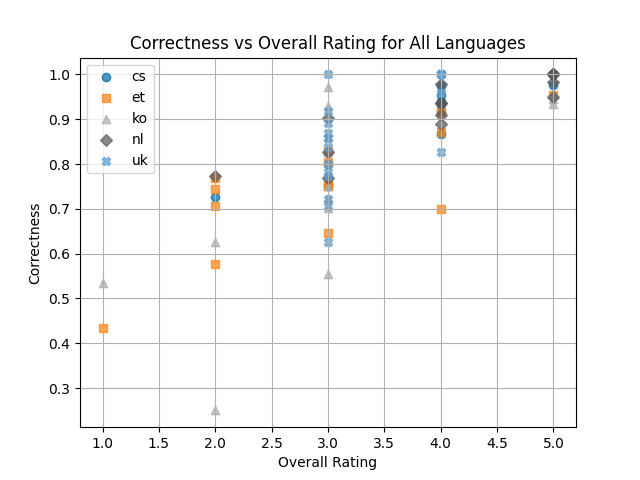
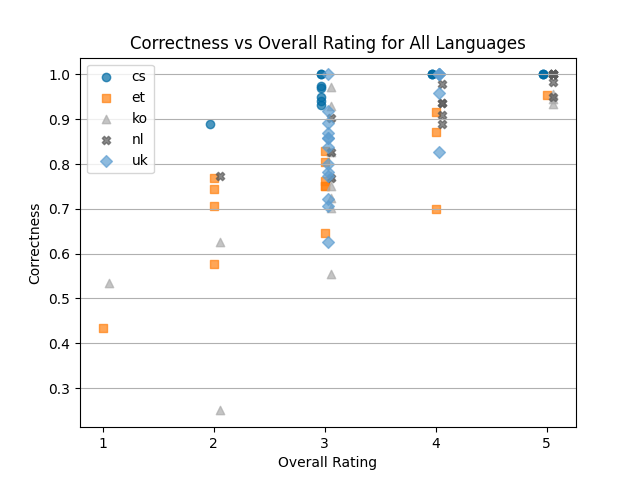
feat: update MT eval

diff --git a/experiments/evaluate_machine_translation.py b/experiments/evaluate_machine_translation.py
@@ -35,6 +35,12 @@ The evaluation results JSON looks like this:
         "title": ...
    ]
 }
+
+Expected call:
+    python evaluate_machine_translation.py \
+        --input_jsons_root ../translation/eval_translation/annotations \
+        --results_dir ../translation/eval_translation/results \
+        --plot_dir ../translation/eval_translation/results 
 """
 
 
@@ -47,6 +53,10 @@ import os
 import numpy as np
 
 from sklearn.metrics import cohen_kappa_score
+import matplotlib.pyplot as plt
+
+from collections import Counter
+
 
 __version__ = "0.0.2"
 __author__ = {"0.0.1" : "Jan Hajic jr.", 
@@ -54,7 +64,7 @@ __author__ = {"0.0.1" : "Jan Hajic jr.",
 
 
 JSONS_MAP = {
-    'cs': 'folksong_mt_czech_SU.json',
+    'cs': 'folksong_mt_czech_OV.json',
     'et': 'folksong_mt_estonian_AA.json',
     'ko': 'folksong_mt_korean_DH.json',
     'nl': 'folksong_mt_dutch_PvK.json',
@@ -107,21 +117,61 @@ def compute_self_agreement(evaluations, language):
     self_agreement = cohen_kappa_score(labels1, labels2)
     return self_agreement
 
+def plot_cor(evaluations, language, plots_dir):
+    '''
+    Create and save plot of correctness vs rating for all languages.
+    '''
+    ratings = []
+    correctness = []
+    for i, e in enumerate(evaluations):
+        # Exclude duplicate songs, if any.
+        if i + 1 in DUPLICATE_SONGS_MAP.get(language, [])[1:]:
+            continue
+        ratings.append(e['overallRating'])
+        n_correct = sum(1 for w in e['words'] if w['status'] == 'correct')
+        n_wrong = sum(1 for w in e['words'] if w['status'] == 'wrong')
+        mean_correctness = n_correct / (n_correct + n_wrong) if (n_correct + n_wrong) > 0 else 0
+        correctness.append(mean_correctness)
+    plt.figure()
+    plt.scatter(ratings, correctness)
+    plt.xlabel('Overall Rating')
+    plt.ylabel('Mean Correctness')
+    plt.title('Correctness vs Overall Rating for {}'.format(language))
+    plt.grid()
+    os.makedirs(plots_dir, exist_ok=True)
+    plt.savefig(os.path.join(plots_dir, 'correctness_vs_rating_{}.png'.format(language)))
+    plt.close()
 
-def evaluate_language(evaluations, language):
+def eval_detailed_info(evaluations, language):
+    hallucinations = str(f"{sum(1 for e in evaluations if e['hallucination'] == 'yes' if e['textId'] not in DUPLICATE_SONGS_MAP.get(language, [])[1:])} out of {len(evaluations) -1} songs")
+    unusual_language = Counter([e['unusualLanguage'] for e in evaluations if e['textId'] not in DUPLICATE_SONGS_MAP.get(language, [])[1:]])
+    return hallucinations, unusual_language
+
+def evaluate_language(evaluations, language, plots_dir='plots'):
     mean_overall_rating = np.mean([e['overallRating'] for e in evaluations if e['overallRating'] is not None])
     mean_correctness, mean_importance, n_total_words = compute_mean_correctness(evaluations, language)
+    hallucinations, unusual_language = eval_detailed_info(evaluations, language)
     self_agreement = compute_self_agreement(evaluations, language)
-    return mean_overall_rating, mean_correctness, mean_importance, n_total_words, self_agreement
+    #plot_cor(evaluations, language, plots_dir)
+    return mean_overall_rating, mean_correctness, mean_importance, n_total_words, self_agreement, hallucinations, unusual_language
 
 
-def report_language_evaluation(language, mean_overall_rating, mean_correctness, mean_importance, n_total_words, self_agreement=0.0):
-    print('Language: {}'.format(language))
-    print('  Mean overall rating: {:.2f}'.format(mean_overall_rating))
-    print('  Mean correctness: {:.2f}'.format(mean_correctness))
-    print('  Mean importance: {:.2f}'.format(mean_importance))
-    print('  Total words evaluated: {}'.format(n_total_words))
-    print('  Self-agreement of annotator: {:.2f}'.format(self_agreement))
+def report_language_evaluation(language, mean_overall_rating, mean_correctness, mean_importance, 
+                               n_total_words, hallucinations, unusual_language, 
+                               self_agreement=0.0, file='results/evaluation_results.txt'):
+    with open(file, 'a') as f:
+        print('Language: {}'.format(language), file=f)
+        print('  Mean overall rating: {:.2f}'.format(mean_overall_rating), file=f)
+        print('  Mean correctness: {:.2f}'.format(mean_correctness), file=f)
+        print('  Mean importance: {:.2f}'.format(mean_importance), file=f)
+        print('  Total words evaluated: {}'.format(n_total_words), file=f)
+        print('  Self-agreement of annotator: {:.2f}'.format(self_agreement), file=f)
+        print('  Hallucinations: {}'.format(hallucinations), file=f)
+        print('  Unusual language distribution:', file=f)
+        for level, count in unusual_language.items():
+            print('    {}: {}'.format(level, count), file=f)
+        print('', file=f)
+
 
 
 def build_argument_parser():
@@ -133,6 +183,10 @@ def build_argument_parser():
     parser.add_argument('-l', '--languages', nargs='+', default=['cs', 'et', 'ko', 'nl', 'uk'],
                         help='Language(s) to evaluate. If not specified, all languages with available '
                              ' JSONs will be evaluated.')
+    parser.add_argument('--plot_dir', type=str, default='plots',
+                        help='Path to the folder where to save the plots.')
+    parser.add_argument('--results_dir', type=str, default='results',
+                        help='Path to the folder where to save the evaluation results.')
 
     parser.add_argument('-v', '--verbose', action='store_true',
                         help='Turn on INFO messages.')
@@ -167,9 +221,47 @@ def main(args):
                 return
 
     # Evaluate per language and report.
+    results_file = os.path.join(args.results_dir, 'evaluation_results.txt')
+    print('Machine Translation Evaluation Results\n', file=open(results_file, 'w'))  # Clear the file before writing results.
     for l, evaluations in evaluations_per_language.items():
-        mean_overall_rating, mean_correctness, mean_importance, n_total_words, self_agreement = evaluate_language(evaluations, l)
-        report_language_evaluation(l, mean_overall_rating, mean_correctness, mean_importance, n_total_words, self_agreement)
+        mean_overall_rating, mean_correctness, mean_importance, n_total_words, self_agreement, hallucinations, unusual_language = evaluate_language(evaluations, l, plots_dir=args.plot_dir)
+        report_language_evaluation(l, mean_overall_rating, mean_correctness, mean_importance, n_total_words, hallucinations, unusual_language, self_agreement, results_file)
+
+    # Plot all languages together.
+    plt.figure()
+    shapes = {'cs': 'o', 'et': 's', 'ko': '^', 'nl': 'X', 'uk': 'D'}
+    plt.style.use('tableau-colorblind10')
+    offsets = {'cs': -0.03, 'et': 0, 'ko': 0.06, 'nl': 0.06, 'uk': 0.03}
+    for l, evaluations in evaluations_per_language.items():
+        ratings = []
+        correctness = []
+        for i, e in enumerate(evaluations):
+            # Exclude duplicate songs, if any.
+            if i + 1 in DUPLICATE_SONGS_MAP.get(l, [])[1:]:
+                continue
+            ratings.append(e['overallRating'])
+            n_correct = sum(1 for w in e['words'] if w['status'] == 'correct')
+            n_wrong = sum(1 for w in e['words'] if w['status'] == 'wrong')
+            mean_correctness = n_correct / (n_correct + n_wrong) if (n_correct + n_wrong) > 0 else 0
+            correctness.append(mean_correctness)
+        # Apply small vertical offset to avoid overlapping points from different languages.
+        rats = []
+        for r in ratings:
+            if r is not None:
+                rats.append(r + offsets.get(l, 0))
+            else:
+                rats.append(r)
+        #ratings = [r + offsets.get(l, 0) for r in ratings if r is not None]
+        plt.scatter(rats, correctness, label=l, alpha=0.7, marker=shapes[l])
+    plt.xlabel('Overall Rating')
+    plt.ylabel('Correctness')
+    plt.title('Correctness vs Overall Rating for All Languages')
+    plt.legend()
+    plt.grid(axis='y')
+    plt.xticks([1, 2, 3, 4, 5])
+    os.makedirs(args.plot_dir, exist_ok=True)
+    plt.savefig(os.path.join(args.plot_dir, 'correctness_vs_rating_all_languages.png'))
+    plt.close()
 
     _end_time = time.process_time()
     logging.info('evaluate_machine_translation.py done in {0:.3f} s'.format(_end_time - _start_time))

diff --git a/experiments/evaluate_mt_iaa.py b/experiments/evaluate_mt_iaa.py
@@ -1,0 +1,179 @@
+#!/usr/bin/env python
+"""This is a script that evalautes IAA of the machine translation evaluation results
+from collaborators.
+
+The evaluation results JSON looks like this:
+
+{
+  "language": "Dutch",
+  "exportedAt": "2026-04-01T22:42:43.617Z",
+  "evaluations": [
+    {
+      "textId": 1,
+      "title": "Title 3",
+      "overallRating": 5,
+      "hallucination": "no",
+      "unusualLanguage": "barely",
+      "comment": "",
+      "words": [
+        {
+          "word": "Een",
+          "status": "not_important"
+        },
+        {
+          "word": "eigen",
+          "status": "correct"
+        },
+        {
+          "word": "tehuis",
+          "status": "correct"
+        },
+        ...
+      },
+      {
+        "textID": 2,
+        "title": ...
+   ]
+}
+"""
+
+import argparse
+import logging
+import json
+import os
+
+import numpy as np
+
+from sklearn.metrics import cohen_kappa_score
+
+iaa_pairs = {
+    'cs' : ('folksong_mt_czech_SU.json', 'folksong_mt_czech_OV.json'),
+    'uk' : ('folksong_mt_ukrainian_DB.json', 'folksong_mt_ukrainian_IL.json'),
+}
+
+__version__ = "0.0.1"
+__author__ = {"0.0.1" : "Anna Dvorakova"}
+
+DUPLICATE_SONGS_MAP = {
+    'cs': [4, 14],
+    'et': [3, 14],
+    'ko': [3, 11],
+    'nl': [3, 15],
+    'uk': [3, 16]
+}
+# Used ids refer to existing ids in the data, that go from 1!
+
+
+
+def main(args):
+    for l, pair in iaa_pairs.items():
+        with open(os.path.join(args.input_dir, pair[0]), 'r', encoding='utf-8') as f1, \
+             open(os.path.join(args.input_dir, pair[1]), 'r', encoding='utf-8') as f2:
+            data1 = json.load(f1)
+            data2 = json.load(f2)
+
+        # Extract the ratings for overallRating and hallucination
+        ratings1 = []
+        ratings2 = []
+        hallucinations1 = []
+        hallucinations2 = []
+        songs1 = {}        
+        songs2 = {}
+        # Collect labels for words in songs
+        for eval1, eval2 in zip(data1['evaluations'], data2['evaluations']):
+            if eval1['textId'] == DUPLICATE_SONGS_MAP[l][1]:
+                logging.info(f"Skipping duplicate song with textId {eval1['textId']} for language {l}")
+                continue
+            if eval1['textId'] != eval2['textId']:
+                logging.warning(f"Text IDs do not match: {eval1['textId']} vs {eval2['textId']}")
+                continue
+            ratings1.append(eval1['overallRating'])
+            ratings2.append(eval2['overallRating'])
+            hallucinations1.append(eval1['hallucination'])
+            hallucinations2.append(eval2['hallucination'])
+
+            # Collect word-level labels
+            songs1[eval1['textId']] = [w['status'] for w in eval1['words']]
+            songs2[eval2['textId']] = [w['status'] for w in eval2['words']]
+
+        print(f"Ratings 1 {l}: {len(ratings1)} {ratings1}")
+        print(f"Ratings 2 {l}: {len(ratings2)} {ratings2}")
+        # Drop in both lists where one of the annotators has missing rating
+        for i in range(len(ratings1)):
+            if ratings1[i] is None or ratings2[i] is None:
+                ratings1[i] = None
+                ratings2[i] = None
+        for i in range(len(hallucinations1)):
+            if hallucinations1[i] is None or hallucinations2[i] is None:
+                hallucinations1[i] = None
+                hallucinations2[i] = None
+        ratings1 = [r for r in ratings1 if r is not None]
+        ratings2 = [r for r in ratings2 if r is not None]
+        hallucinations1 = [h for h in hallucinations1 if h is not None]
+        hallucinations2 = [h for h in hallucinations2 if h is not None]
+        
+        # Compute Cohen's kappa for overallRating and hallucination
+        kappa_rating = cohen_kappa_score(ratings1, ratings2)
+        kappa_hallucination = cohen_kappa_score(hallucinations1, hallucinations2)
+        # Compute Cohen's kappa for word-level labels
+        kappa_words = []
+        kappa_words_important = []
+        important_acc = []
+        for textId in songs1.keys():
+            if textId in songs2:
+                kappa_word = cohen_kappa_score(songs1[textId], songs2[textId])
+                kappa_words.append(kappa_word)
+
+                # Compute kappa only for important words (correct/wrong)
+                important_indices1 = [i for i, status in enumerate(songs1[textId]) if status in ['correct', 'wrong']]
+                important_indices2 = [i for i, status in enumerate(songs2[textId]) if status in ['correct', 'wrong']]
+                important_indices = list(set(important_indices1) & set(important_indices2))
+                print(f"Text ID {textId}: important indices {important_indices}")
+                if important_indices:
+                    words1 = [songs1[textId][i] for i in important_indices]
+                    words2 = [songs2[textId][i] for i in important_indices]
+                    if words1 == words2:
+                        print(f"Text ID {textId}: perfect agreement on important words")
+                        kappa_word_important = 1.0
+                    else:
+                        kappa_word_important = cohen_kappa_score(
+                            words1,
+                            words2,
+                            labels=['correct', 'wrong']
+                        )
+                    kappa_words_important.append(kappa_word_important)
+                    important_acc.append(sum(1 for w1, w2 in zip(words1, words2) if w1 == w2) / len(words1))
+
+        mean_kappa_words = np.mean(kappa_words) if kappa_words else 0
+        mean_kappa_words_important = np.mean(kappa_words_important) if kappa_words_important else 0
+        logging.info(f"Language: {l}")
+        # Save the results to a file
+        with open(os.path.join(args.output_dir, f'iaa_{l}_{pair[0][-7:-5]}_{pair[1][-7:-5]}.txt'), 'w', encoding='utf-8') as f:
+            f.write(f"Cohen's kappa for overallRating: {kappa_rating:.4f}\n")
+            f.write(f"Cohen's kappa for hallucination: {kappa_hallucination:.4f}\n")
+            f.write(f"Mean Cohen's kappa for word-level labels: {mean_kappa_words:.4f}\n")
+            f.write(f"Kappa for word-level labels per song: {kappa_words}\n")
+            f.write(f"Mean accuracy for important word-level labels: {np.mean(important_acc):.4f}\n")
+            f.write(f"Mean Cohen's kappa for important word-level labels: {mean_kappa_words_important:.4f}\n")
+            f.write(f"Kappa for important word-level labels per song: {kappa_words_important}\n")
+
+def build_argument_parser():
+    parser = argparse.ArgumentParser(description='Evaluate IAA of machine translation evaluation results.')
+    parser.add_argument('-i', '--input_dir', type=str, default='data/evaluation_results/',
+                        help='Directory containing the evaluation results JSON files.')
+    parser.add_argument('-o', '--output_dir', type=str, default='data/iaa_results/',
+                        help='Directory where the IAA results will be saved.')
+    parser.add_argument('-v', '--verbose', action='store_true', help='Enable verbose logging.')
+    return parser
+
+
+if __name__ == '__main__':
+    parser = build_argument_parser()
+    args = parser.parse_args()
+
+    if args.verbose:
+        logging.basicConfig(format='%(levelname)s: %(message)s', level=logging.INFO)
+
+    #print(cohen_kappa_score(['correct', 'correct'], ['correct', 'correct']))
+    #print(cohen_kappa_score(['wrong', 'correct', 'correct', 'correct', 'correct', 'correct', 'correct', 'wrong', 'correct', 'correct', 'correct', 'correct', 'correct', 'correct', 'correct'], ['correct', 'correct', 'correct', 'correct', 'correct', 'correct', 'correct', 'correct', 'correct', 'correct', 'correct', 'correct', 'correct', 'correct', 'correct']))
+    main(args)
